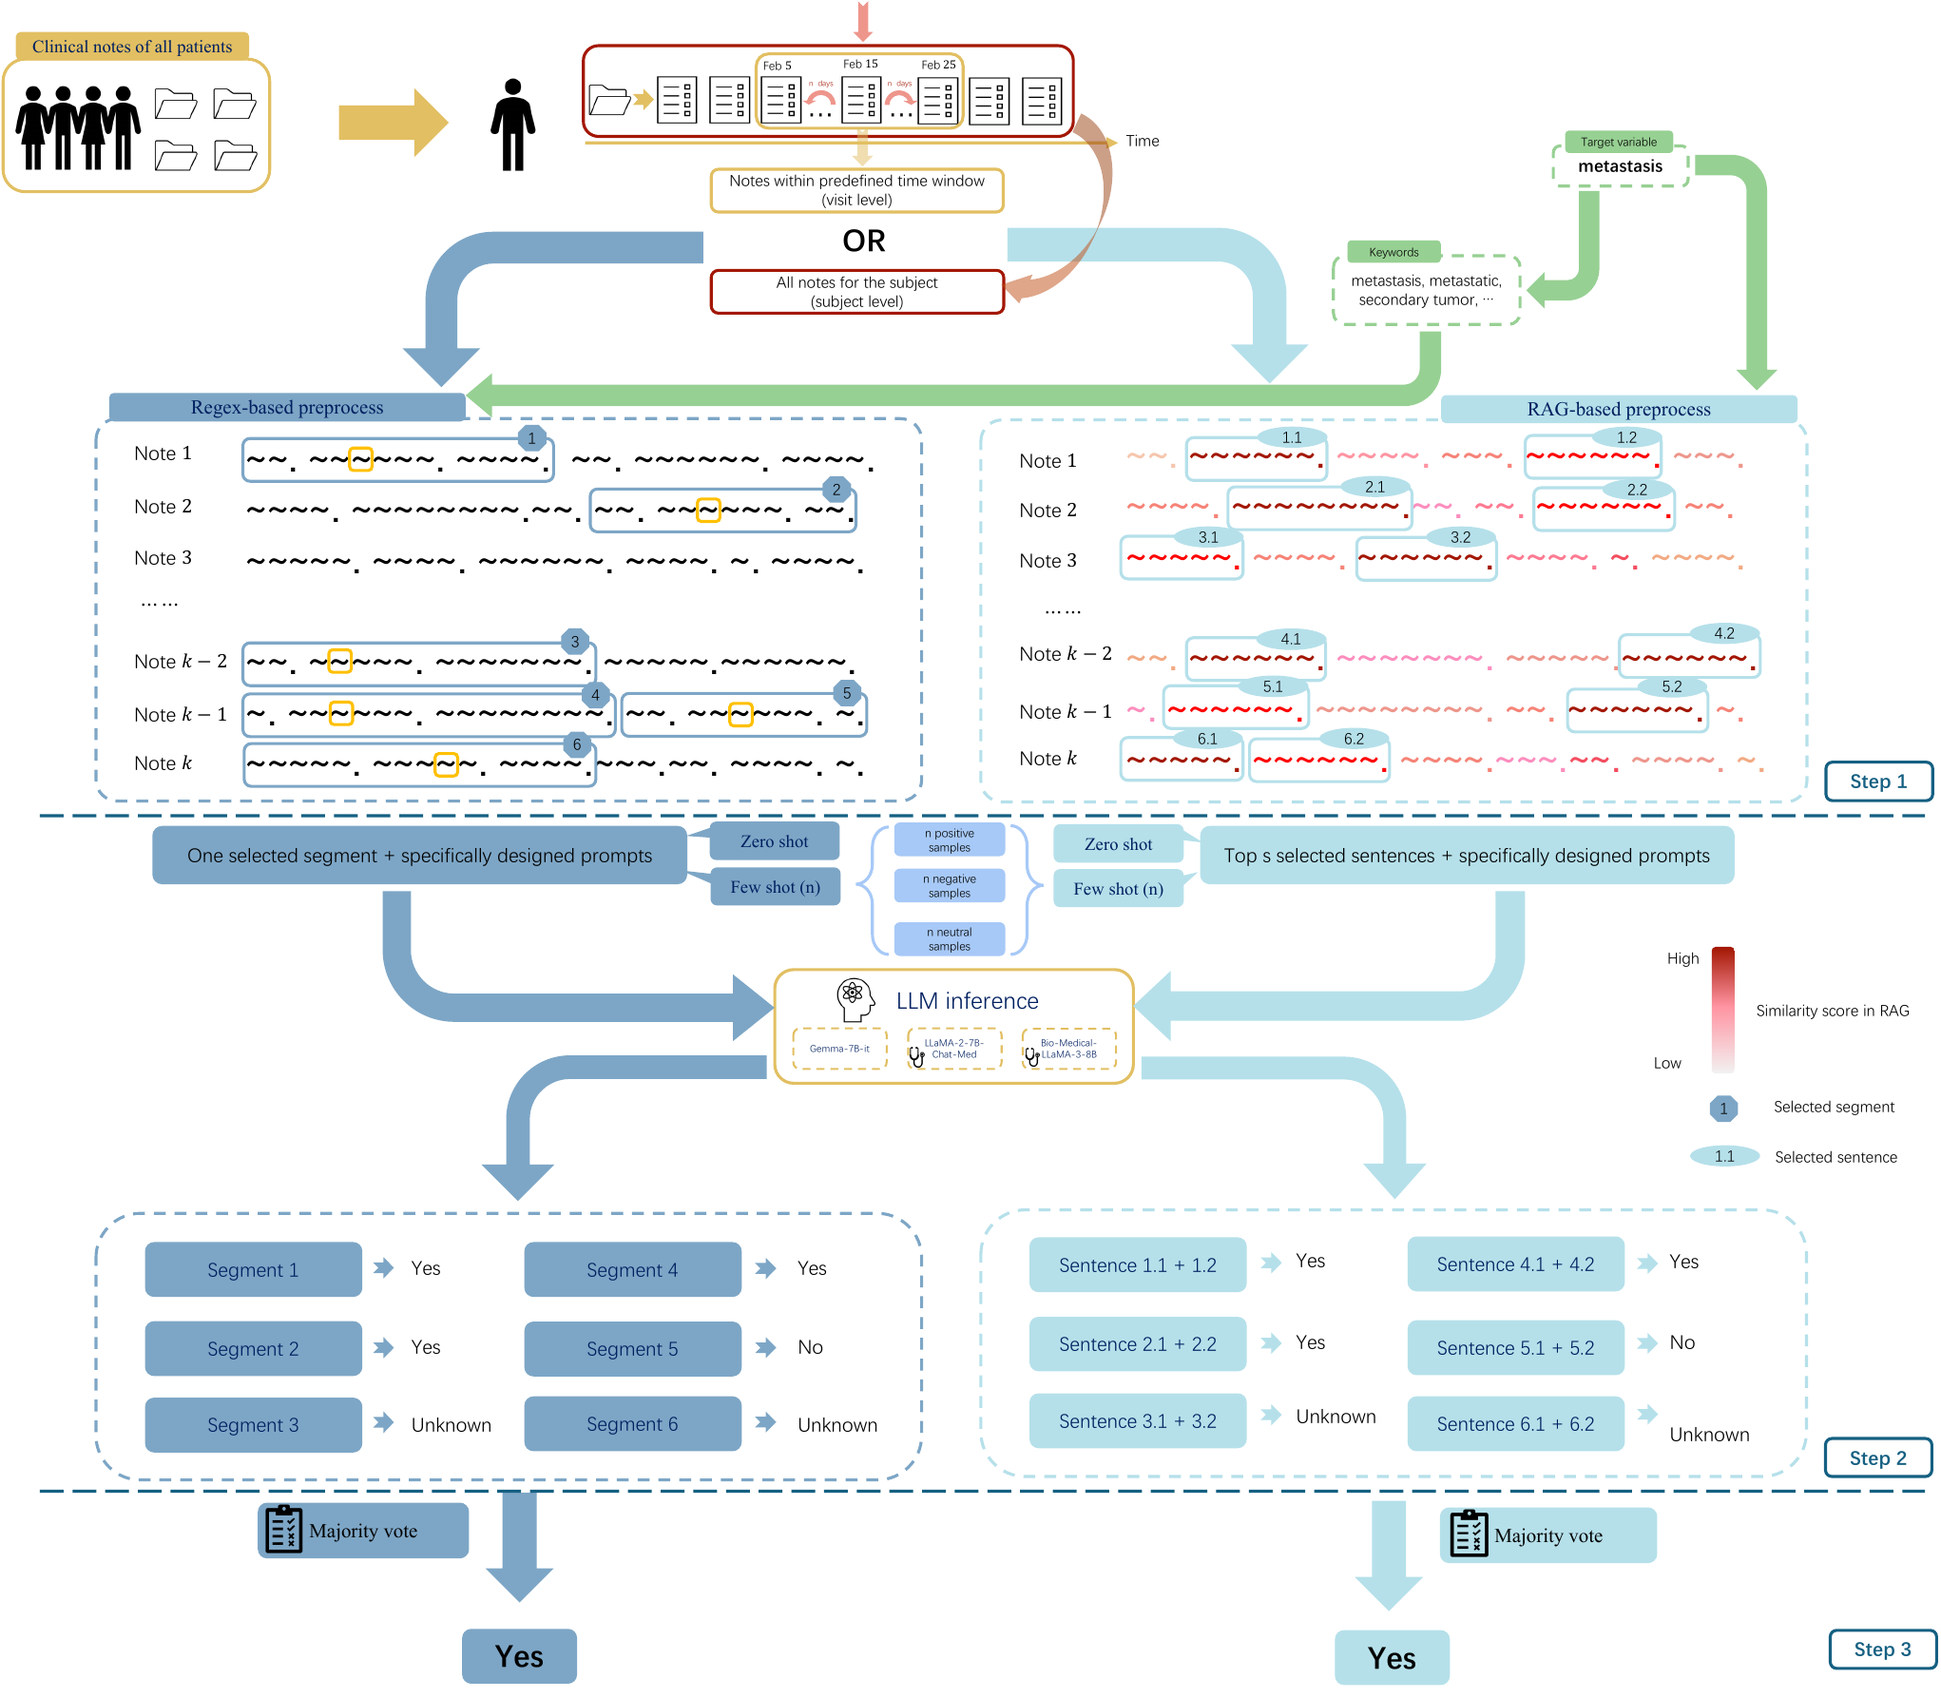
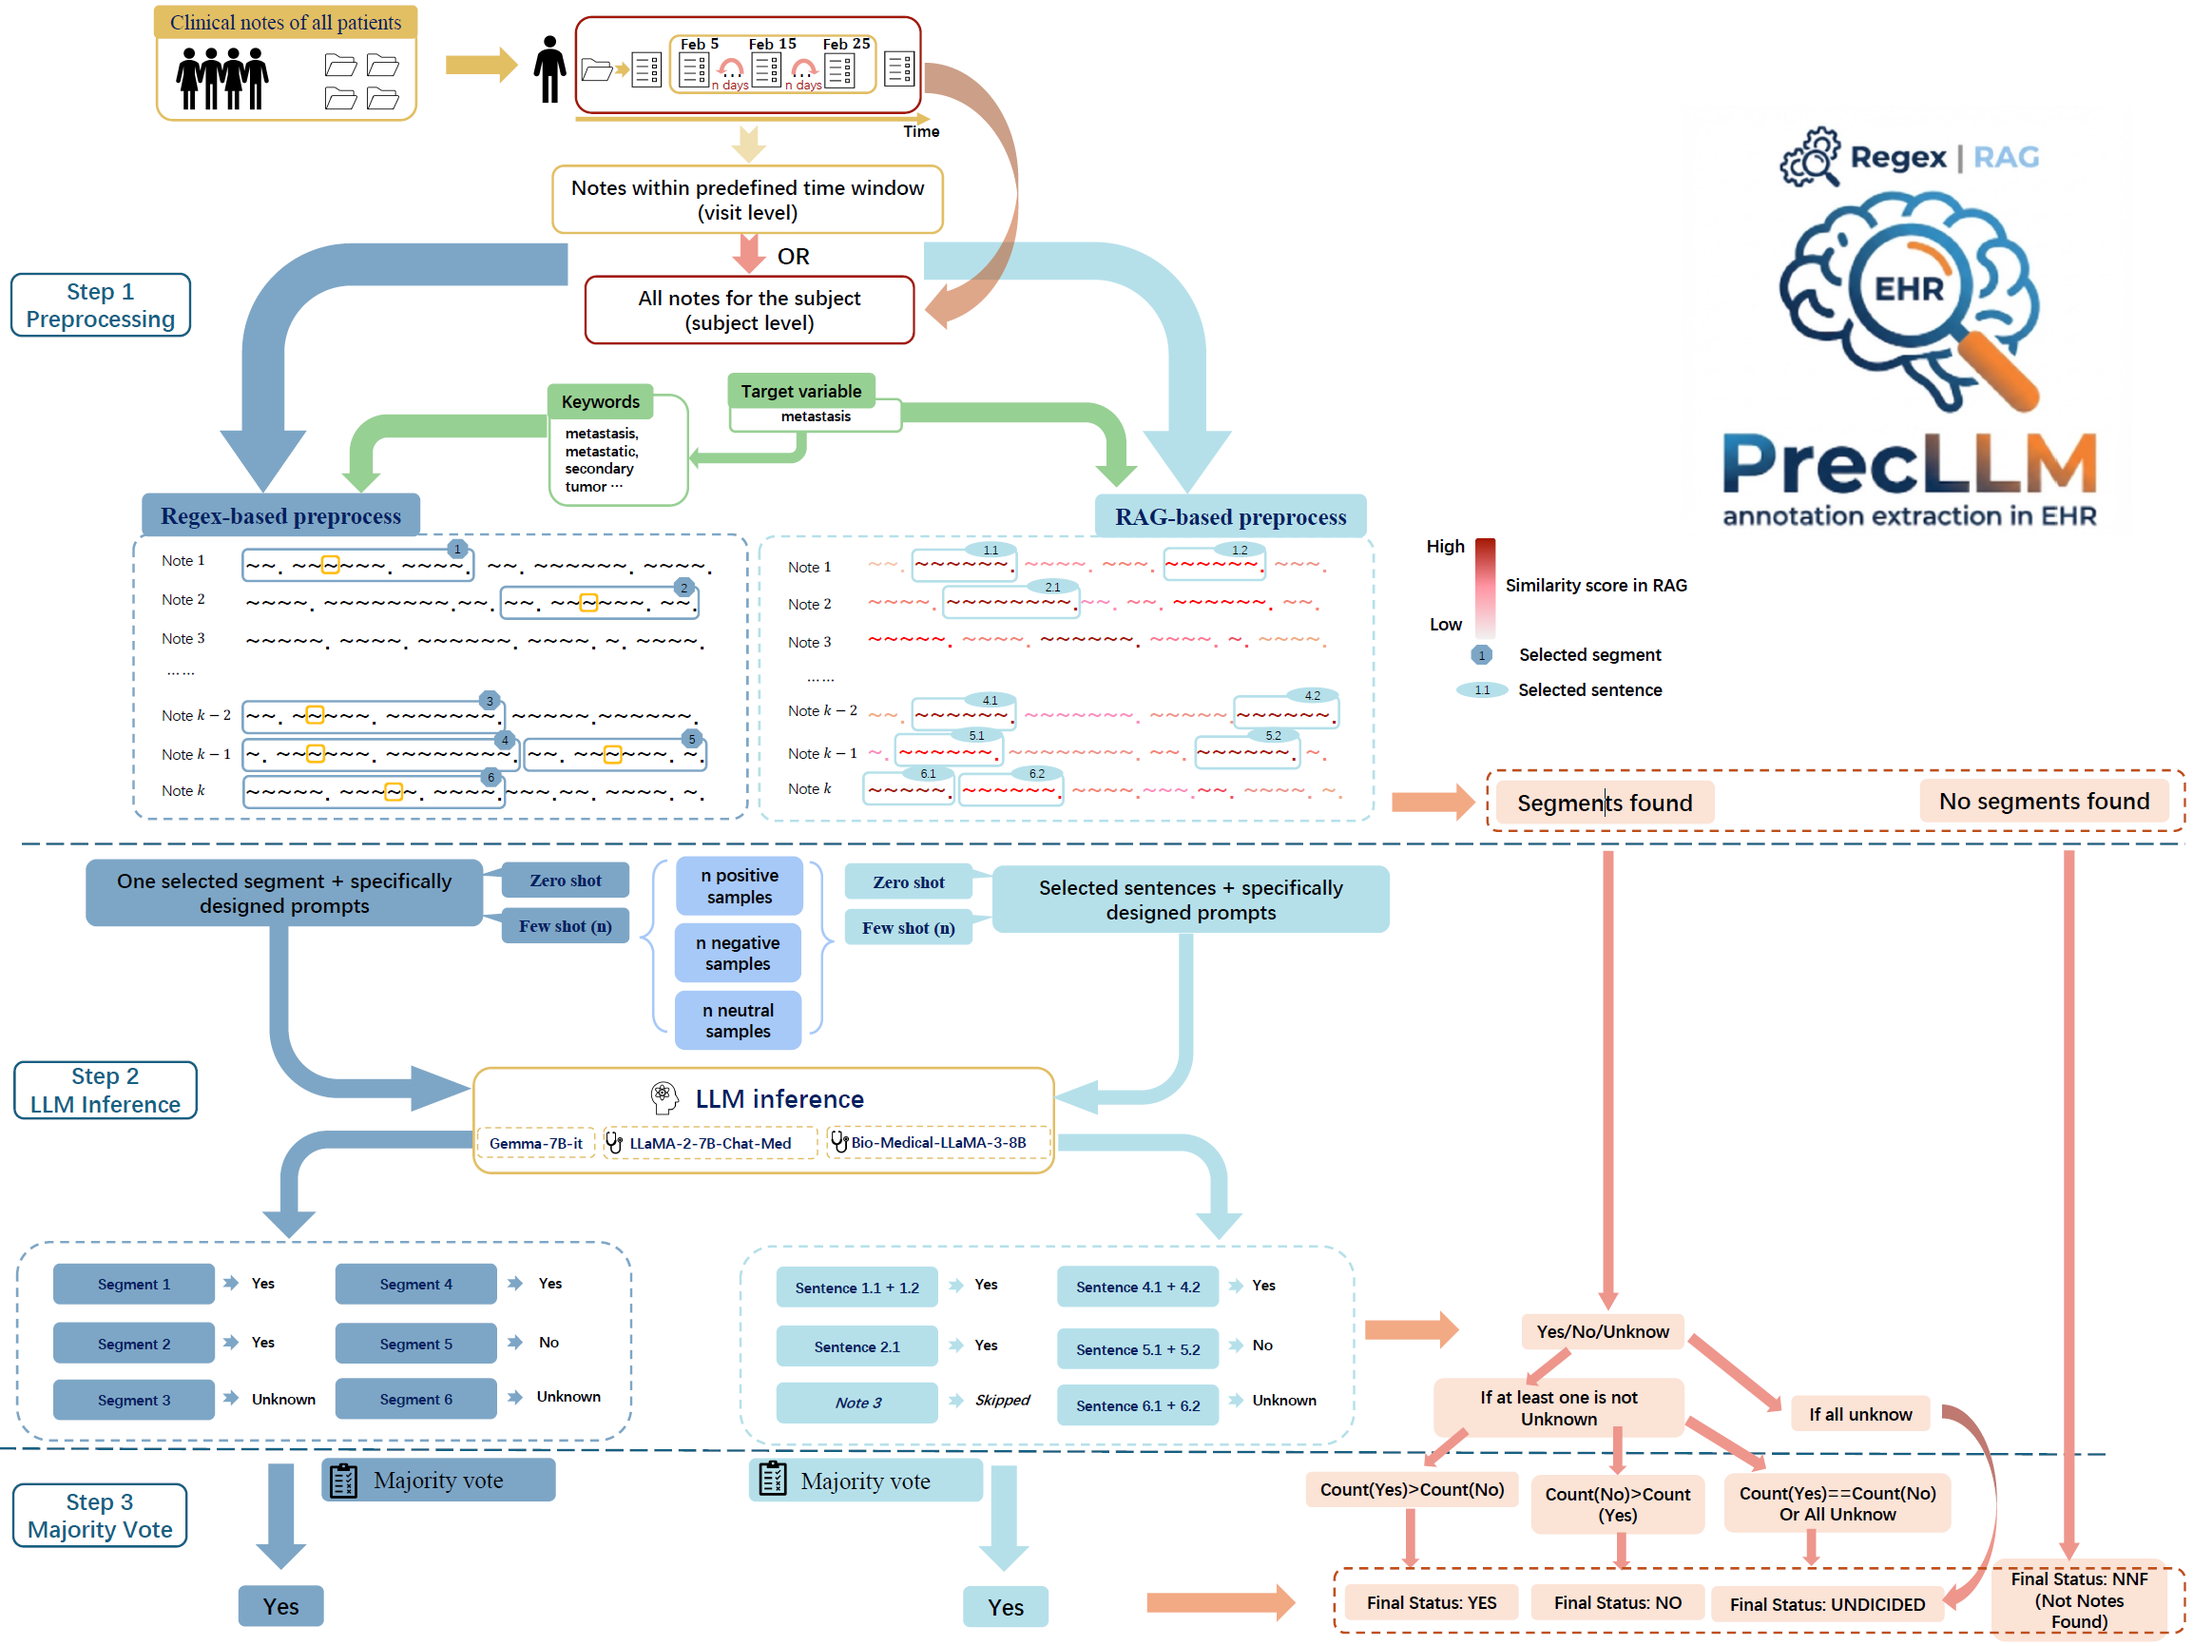
update git
update arXiv

diff --git a/README.md b/README.md
@@ -1,47 +1,21 @@
-# PrecLLM
+\# PrecLLM
 
-<p align="center">
-  <img src="assets/precllm-logo.png" alt="PrecLLM package icon" width="140" />
-</p>
+**GitHub Repository:** [https://github.com/renlyly/LLM_ClinicalNote](https://github.com/renlyly/LLM_ClinicalNote)   
 
-PrecLLM is a  package for our paper-oriented clinical note phenotyping workflows.
-It is explicitly designed to preserve the core logic from the original project: preprocessing (`regex/rag/nonprocess`), prompt-controlled inference (`0/3/6-shot`), and model-specific execution.
+**Preprint (arXiv):** [https://arxiv.org/abs/2412.02868](https://arxiv.org/abs/2412.02868)
 
-## Workflow Diagram
+PrecLLM is a dedicated package built to support paper-oriented clinical note phenotyping workflows. It is engineered to seamlessly preserve the original project's core logic, encompassing data preprocessing strategies (`regex`, `rag`, or `nonprocess`), prompt-controlled inference (`zero`, `three`, or `six-shot`), and model-specific execution
+
+## Architecture & Workflow
 
 <p align="center">
   <img src="assets/precllm-workflow-diagram.png" alt="PrecLLM workflow diagram" width="960" />
 </p>
+The pipeline ingests note-level CSV data and applies your chosen preprocessing strategy (`regex`, `rag`, or `nonprocess`). It then constructs phenotype-specific prompts using zero, three, or six-shot configurations. These prompts are routed to either a deterministic `rule` baseline or a `transformers` model for inference. The final output consists of a preprocessed CSV file.
 
-Diagram legend:
-- Input: note-level CSV data.
-- Preprocess: `regex`, `rag`, or `nonprocess`.
-- Prompting: phenotype-specific prompts with `0`, `3`, or `6` shot settings.
-- Inference backend: `rule` baseline or `transformers` model inference.
-- Outputs: preprocessed CSV, predictions CSV, and manifest JSON.
+## Prompt Generation System
 
-## What Was Restored and Deepened
-
-- Prompt system is now first-class and explicit.
-- Model invocation path is explicit and configurable.
-- Multi-ID schema support is explicit (`subject_id`, `hadm_id`, etc.).
-- Output preserves source identifiers for audit and downstream merge.
-
-## Prompt System (Core Control)
-
-Prompt source code location:
-- `src/precllm/prompting.py`
-
-This module contains:
-- phenotype-specific task templates (`metastasis`, `insulin`, `hypertension`)
-- shot-aware example selection (`0`, `3`, `6`)
-- deterministic prompt rendering (`build_prompt`)
-
-Legacy alignment:
-- Example counts follow the original script style:
-  - `shot=0` -> 3 examples
-  - `shot=3` -> 9 examples
-  - `shot=6` -> 18 examples
+Located within `src/precllm/prompting.py`, this module governs deterministic prompt generation using the `build_prompt` function. It includes phenotype-specific task templates for metastasis, insulin, and hypertension. To maintain alignment with legacy scripts, the module relies on a shot-aware selection logic that scales example counts based on the requested parameter: 0 shots load 3 examples, 3 shots load 9, and 6 shots load 18.
 
 Inspect a prompt directly:
 
@@ -52,19 +26,14 @@ python -m precllm prompt \
   --note-text "Patient with known metastatic disease in liver."
 ```
 
-## Model Invocation
+## Model Backend & Inference
 
-Model backend code location:
-- `src/precllm/llm_backends.py`
+PrecLLM orchestrates predictions through `src/precllm/predict.py`, pulling from backend logic defined in `src/precllm/llm_backends.py`. The system supports two primary inference modes:
 
-Prediction orchestration:
-- `src/precllm/predict.py`
+- **`rule`**: A deterministic baseline that requires no external LLM dependencies.
+- **`transformers`**: Hugging Face model inference utilizing `AutoTokenizer` and `AutoModelForCausalLM`.
 
-Supported inference backends:
-- `rule`: deterministic baseline (no external LLM dependency)
-- `transformers`: Hugging Face model inference via `AutoTokenizer` and `AutoModelForCausalLM`
-
-Install LLM runtime dependencies when using `transformers` backend:
+When using the `transformers` backend, ensure the LLM runtime dependencies are installed:
 
 ```bash
 python -m pip install -e '.[llm]'
@@ -81,9 +50,7 @@ Override model path when needed:
 
 ## Data Contract and Schema Flexibility
 
-Minimum required data:
-- one text column for clinical notes (`--text-column`)
-- one or more ID columns (`--id-column` or `--id-columns`)
+The package requires a minimal data schema: at least one text column designated for clinical notes (`--text-column`) and one or more identifier columns (`--id-column` or `--id-columns`). All provided ID columns are validated prior to execution and preserved in the final outputs. Furthermore, the system automatically generates a stable composite key, `record_id`, from these provided IDs.
 
 Single-ID example:
 
@@ -115,20 +82,17 @@ python -m precllm run \
   --inference-backend transformers
 ```
 
-How it is handled:
-- all ID columns are validated before run
-- IDs are preserved in outputs
-- `record_id` is generated as a stable composite key from provided IDs
+
 
 ## CLI Reference
 
-List supported options and defaults:
+You can list all supported options and system defaults by running:
 
 ```bash
 python -m precllm catalog
 ```
 
-Dry-run with full resolved config and prompt metadata:
+To verify your configuration without triggering a full inference run, use the `--dry-run` flag to resolve the config and prompt metadata:
 
 ```bash
 python -m precllm run \
@@ -144,20 +108,13 @@ python -m precllm run \
   --dry-run
 ```
 
-## Output Contract
+## Output Specifications
 
-Each run generates:
-- `<run_stem>.preprocessed.csv`
-- `<run_stem>.predictions.csv`
-- `<run_stem>.manifest.json`
+Every execution generates three primary files formatted with a descriptive run stem (`{model}_{phenotype}_{preprocess}_{shot}shot_seed{seed}`):
 
-`<run_stem>` format:
-- `{model}_{phenotype}_{preprocess}_{shot}shot_seed{seed}`
-
-The output CSV files include:
-- original ID columns
-- `record_id`
-- prediction fields (`label`, `evidence`, `raw_response`)
+- **`<run_stem>.preprocessed.csv`**: The processed input data.
+- **`<run_stem>.predictions.csv`**: Contains the original ID columns, the generated `record_id`, and key prediction fields including `label`, `evidence`, and `raw_response`.
+- **`<run_stem>.manifest.json`**: Metadata tracking the run details.
 
 ## Package Layout
 
@@ -176,7 +133,4 @@ LLM_Note/
 
 This project is licensed under the MIT License (`LICENSE`).
 
-Compliance and responsibility notes:
-- The package is a research and engineering tool, not a medical device.
-- Outputs are for research workflows and must not be used as standalone clinical decisions.
-- You are responsible for HIPAA/privacy compliance, data governance, and model access controls in your environment.
+**Please note:** PrecLLM is an engineering tool designed strictly for research workflows, not a medical device. Outputs must not be used as standalone clinical decisions. Users are fully responsible for maintaining HIPAA and privacy compliance, data governance, and secure model access controls within their own environments.
